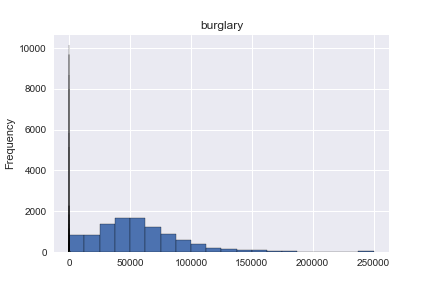
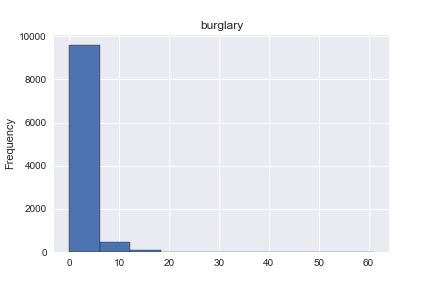
updated histogram to be not overwriting on top of each other

diff --git a/templates/data_source.html b/templates/data_source.html
@@ -1,0 +1,91 @@
+<!doctype html>
+<html lang = "en">
+    <head>
+        <meta charset="utf-8">
+        <title>Capstone Project</title>
+        <style> 
+        html {
+            font-family: 'Helvetica';
+            background: white;
+        }
+
+        body { 
+            background: lightgrey;
+            max-width: 900px;
+            margin: 0 auto; 
+            padding: 5px 10px 5px 10px;
+        }
+
+        .header {
+            padding: 2px 10px 2px 10px;
+            background: lightsteelblue;
+        }
+
+        input[type = "submit"] {
+            padding: 0px 10px 0px 10px;
+            color: black;
+            background: lightsteelblue;
+            border: none;
+            box-shadow: 1px 1px 1px #4C6E91;
+        }
+        
+        input[type = "submit"]:hover {
+            background: steelblue;
+        }
+        </style>
+
+        <link rel = "stylesheet" href = "http://cdn.pydata.org/bokeh/release/bokeh-0.12.4.min.css" type="text/css" />
+        <script type = "text/javascript" src = "http://cdn.pydata.org/bokeh/release/bokeh-0.12.4.min.js"></script>
+        {{script | safe }}
+    </head>
+
+    <body>
+        <div class = page>
+            <div class = header>
+                <h1>NYC Neighborhood Block Recommender </h1>
+            </div>  
+            <div class = contents> 
+                <h1><center>Recommendations</center></h1>
+                <center> 
+                <table border = '1'>
+                    <tr> 
+                        <th> Characteristics </th> 
+                        <th> Data Source </th> 
+                    </tr> 
+                    <tr> 
+                        <td> demographics </td>
+                        <td> ACS block group data </td>
+                    </tr>
+                    <tr>
+                        <td> crime rates </td>
+                        <td> NYPD </td>
+                    </tr>
+                    <tr>
+                        <td> noise level </td> 
+                        <td> NYC open data (311 Service Requests) </td>
+                    </tr>
+                    <tr>
+                        <td> number of trees </td>
+                        <td> NYC open data (Street Tree Census) </td>
+                    </tr>
+                    <tr>
+                        <td> school quality </td> 
+                        <td> NYC Department of Education </td> 
+                    </tr>
+                    <tr>
+                        <td> access to public transportation </td> 
+                        <td> MTA </td> 
+                    </tr>
+                    <tr>
+                        <td> number of restaurants and bars </td>
+                        <td> Foursquare API </td> 
+                    </tr>
+                </table>
+                <form id='input' method='post' action='pick_chars'>
+                    <input type='submit' value='Back'>
+                </form>                
+                </center>
+            </div>
+        </div>
+    </body>
+</html>

diff --git a/templates/pick_chars.html b/templates/pick_chars.html
@@ -44,7 +44,10 @@
 
 			<div class = contents>
 				<h4>Please choose the characteristics you care about from the following: </h4>
-				
+				<form id='input' method='post' action='data_source'>
+					<input type='submit' value='Info on data source'>
+				</form>
+
 				<form id='input' method='post' action='picked_chars'>
 				
 				<p> <center> <h4> Demographics and Amenities </h4> </center> </p>

diff --git a/templates/picked_chars.html b/templates/picked_chars.html
@@ -42,7 +42,7 @@
 								{{val}} <input type = 'number' name = '{{char}}'> </center> 
 								</td>
 								<td> 
-								<img src = 'static/{{char}}_hist.png' style = 'width: 400px')>
+								<img src = 'static/histograms/{{char}}_hist.png' style = 'width: 400px')>
 								</td>
 							</tr>
 						{% endfor %}

diff --git a/app.py b/app.py
@@ -60,6 +60,11 @@ def pick_chars():
 	if request.method == 'POST':
 		return render_template('pick_chars.html')
 
+@app.route('/data_source', methods = ['POST'])
+def data_source():
+	if request.method == 'POST':
+		return render_template('data_source.html')
+		
 @app.route('/picked_chars', methods = ['POST'])
 def picked_chars():
 	char_chosen_list = []
